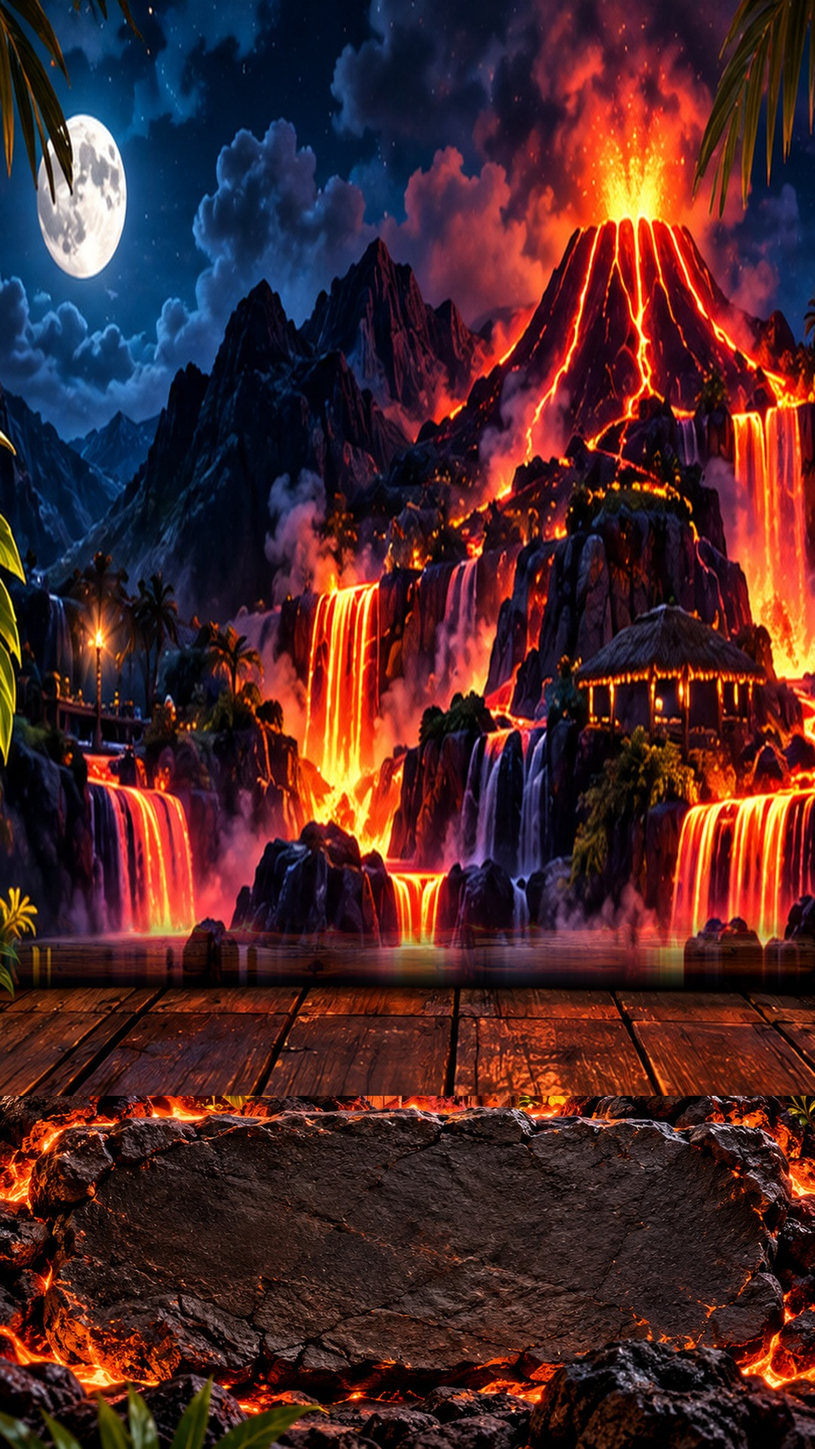
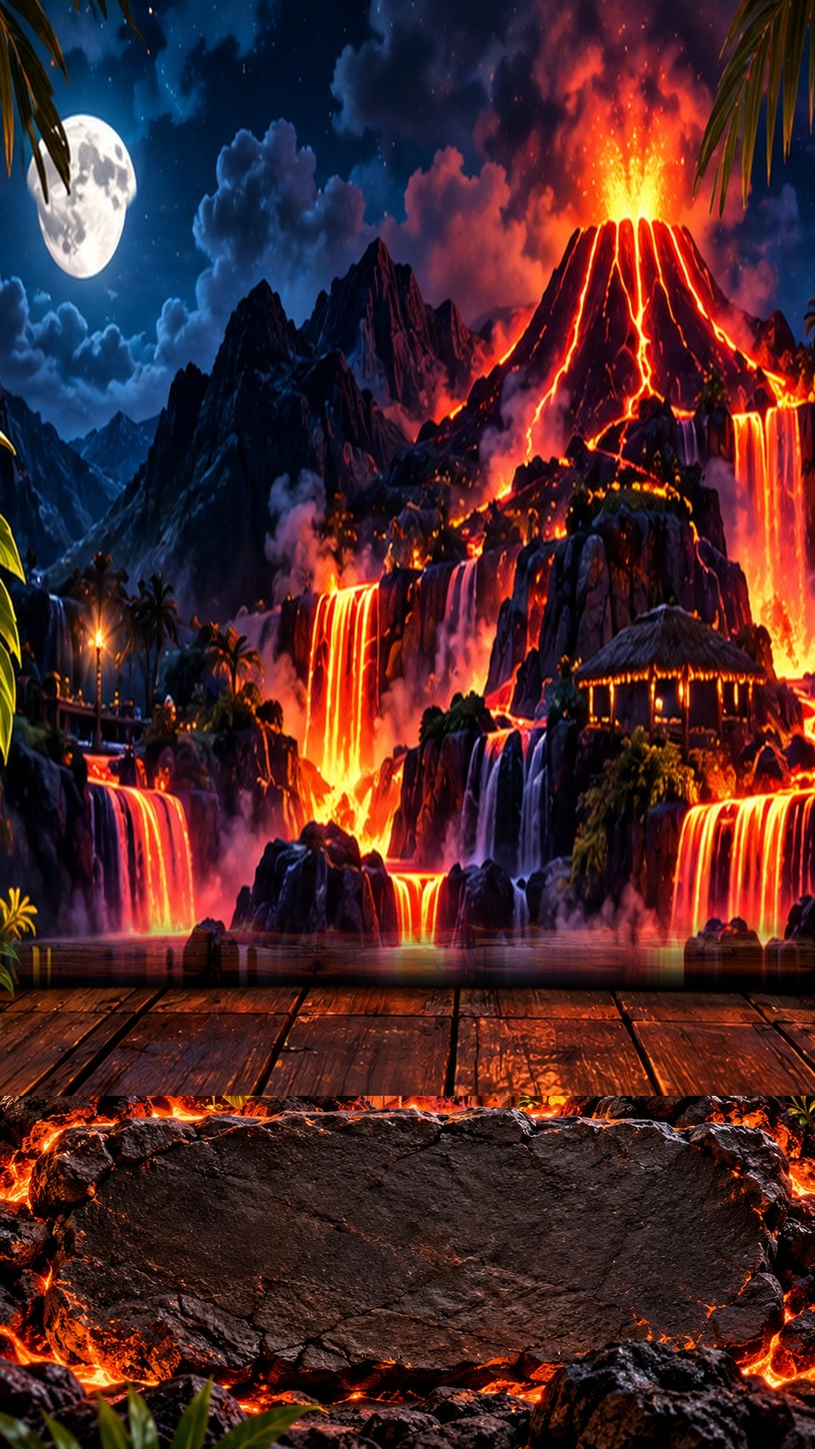
Add files via upload

Changed region(s): [[0.0, 0.0625, 0.1833, 0.1562]]

diff --git a/js/sign-v4.2.js b/js/sign-v4.2.js
@@ -1,0 +1,349 @@
+'use strict';
+(()=>{
+ const BASE={auto:true,screenTime:25,screenTimes:[20,25,25],factTime:12,weatherTime:12,weatherScale:100,weatherX:0,weatherY:0,tickerSpeed:95,tickerFontSize:45,drinksSize:60,drinksY:0,foodSize:60,foodY:0,menuEntries:null,menuTitles:null,tickerText:null,camY0:0,camY1:0,camSize0:100,camSize1:100,video0X:0,video0Y:0,video0Scale:100,video0CropTop:0,video0CropBottom:0,video0CropLeft:0,video0CropRight:0,video1X:0,video1Y:0,video1Scale:100,video1CropTop:0,video1CropBottom:0,video1CropLeft:0,video1CropRight:0,video0FrameX:160,video0FrameY:475,video0FrameWidth:760,video0FrameHeight:350,video1FrameX:160,video1FrameY:1055,video1FrameWidth:760,video1FrameHeight:355};
+ let cfg={...BASE};try{const x=JSON.parse(localStorage.getItem('roses-cove-v02')||'{}');cfg={...cfg,...x};}catch(_){}
+ const $=id=>document.getElementById(id), screens=[...document.querySelectorAll('.screen')];let current=-1,rotator=null,menuTimer=null,menuIndex=0,weatherTimer=null,factTimer=null,weatherIndex=0,camIndex=-1,camTimer=null,lastTrackWidth=0;const data=window.ROSES_DATA||{cams:[],locations:[]};
+ function scale(){document.getElementById('sign').style.setProperty('--scale',Math.min(innerWidth/1080,innerHeight/1920));}
+ addEventListener('resize',scale);scale();
+ function tickClock(){const d=new Date();$('clock').textContent=d.toLocaleDateString('en-US',{weekday:'long',month:'long',day:'numeric'})+'  •  '+d.toLocaleTimeString('en-US',{hour:'numeric',minute:'2-digit'});}tickClock();setInterval(tickClock,15000);
+ const facts=[
+  ['POLYNESIAN VOYAGING','Polynesian navigators traveled vast Pacific distances using stars, swells, winds, and signs from birds and clouds.'],
+  ['TIKI CULTURE','American tiki bars became popular in the 20th century, blending tropical fantasy, elaborate cocktails, and carved décor.'],
+  ['HAWAII','The Hawaiian Islands were formed by volcanic activity as the Pacific Plate moved over a hotspot.'],
+  ['TAHITI','Tahiti is the largest island in French Polynesia and is part of the Society Islands.'],
+  ['LANGUAGE','Aloha can convey hello, goodbye, affection, and compassion depending on its context.'],
+  ['OCEAN HISTORY','Traditional Polynesian double-hulled canoes were engineered for long ocean voyages.'],
+  ['TIKI TRIVIA','The Mai Tai is widely associated with the American tiki cocktail boom of the 1940s.'],
+  ['BORA BORA','Bora Bora is surrounded by a lagoon protected by a reef and is known for Mount Otemanu.']
+ ];let factIndex=-1;
+ function showFact(){if(!facts.length)return;let next=Math.floor(Math.random()*facts.length);if(facts.length>1&&next===factIndex)next=(next+1)%facts.length;factIndex=next;$('fact-type').textContent=facts[next][0];$('fact-text').textContent=facts[next][1];}
+ const CAM_LIST=[
+  {label:'Maui Sands • Honokowai, Maui, HI',kind:'youtube',value:'QzQ-7eiMw1w'},
+  {label:'Banzai Pipeline • North Shore, Oahu, HI',kind:'youtube',value:'Fp7l8XASb9Y'},
+  {label:'Halemaʻumaʻu Crater • Hawaiʻi Volcanoes NP, HI',kind:'youtube',value:'HggWKlZv9yk'},
+  {label:'Kaimana Beach Surf • Honolulu, Oahu, HI',kind:'youtube',value:'XXVhs4XkLm0'},
+  {label:'Kaimana Beach Shaka • Honolulu, Oahu, HI',kind:'youtube',value:'lBjz3lX14zY'},
+  {label:'Napili Beach • Napili, Maui, HI',kind:'youtube',value:'GL_2CrLwSDA'},
+  {label:'Kaanapali Beach • Kaanapali, Maui, HI',kind:'youtube',value:'YXji6UQ0bwY'},
+  {label:'Kahala Resort • Honolulu, Oahu, HI',kind:'youtube',value:'TZAvviB_o-4'}
+ ];
+ // Each screen visit takes the next two sources. Third-party page embeds may refuse framing.
+ let camPairCursor=0;
+ function stopCam(){
+  clearTimeout(camTimer);camTimer=null;
+  for(let i=0;i<2;i++){
+   $('cam-player-'+i).replaceChildren();
+   $('cam-fallback-'+i).classList.remove('visible');
+  }
+ }
+ function showCam(){
+  stopCam();
+  for(let i=0;i<2;i++){
+   const cam=CAM_LIST[(camPairCursor+i)%CAM_LIST.length];
+   const label=$('cam-label-'+i);label.replaceChildren();
+   const parts=cam.label.split(' • ');
+   const name=document.createElement('span');name.className='cam-name';name.textContent=parts[0];
+   const location=document.createElement('span');location.className='cam-place';location.textContent=parts.slice(1).join(' • ');
+   label.append(name,location);label.style.transform='translateY('+(Number(cfg['camY'+i])||0)+'px)';
+   const mount=$('cam-player-'+i),fallback=$('cam-fallback-'+i);
+   fallback.replaceChildren();fallback.classList.remove('source-hint','visible');
+   if(cam.kind==='youtube'){
+    const iframe=document.createElement('iframe');
+    iframe.title='Live view: '+cam.label;iframe.loading='eager';
+    iframe.allow='autoplay; encrypted-media; picture-in-picture; fullscreen';
+    iframe.referrerPolicy='strict-origin-when-cross-origin';
+    iframe.src='https://www.youtube.com/embed/'+encodeURIComponent(cam.value)+'?autoplay=1&mute=1&controls=0&playsinline=1&rel=0';
+    iframe.style.cssText='display:block;border:0';
+    mount.replaceChildren(iframe);applyVideoFit();
+   } else {
+    // Do not frame GeoWebcams: its response explicitly blocks third-party iframes.
+    mount.replaceChildren();
+    const title=document.createElement('strong');title.textContent='🌴 On Island Time';
+    const sub=document.createElement('small');sub.textContent='This camera needs a direct video link to join the luau.';
+    const link=document.createElement('a');link.textContent='OPEN LIVE CAMERA ↗';
+    link.href=cam.value;link.target='_blank';link.rel='noopener noreferrer';
+    fallback.append(title,sub,link);fallback.classList.add('visible');
+   }
+  }
+  camPairCursor=(camPairCursor+2)%CAM_LIST.length;
+ }
+ const weatherCodes={0:['Clear sky','☀'],1:['Mainly clear','🌤'],2:['Partly cloudy','⛅'],3:['Overcast','☁'],45:['Fog','🌫'],48:['Fog','🌫'],51:['Light drizzle','🌦'],53:['Drizzle','🌧'],55:['Heavy drizzle','🌧'],61:['Light rain','🌧'],63:['Rain','🌧'],65:['Heavy rain','🌧'],80:['Showers','🌦'],81:['Rain showers','🌧'],82:['Heavy showers','⛈'],95:['Thunderstorm','⛈']};
+ async function updateWeather(){if(current!==1||!data.locations.length)return;const loc=data.locations[weatherIndex++%data.locations.length];$('weather-place').textContent=loc.label;$('weather-position').textContent='';$('weather-description').textContent='Checking island skies…';$('weather-temp').textContent='--°';try{const u='https://api.open-meteo.com/v1/forecast?latitude='+loc.lat+'&longitude='+loc.lon+'&current=temperature_2m,weather_code&temperature_unit=fahrenheit&timezone=auto';const r=await fetch(u,{cache:'no-store'});if(!r.ok)throw Error('weather unavailable');const d=(await r.json()).current;if(current!==1)return;const c=weatherCodes[d.weather_code]||['Current conditions','🌺'];$('weather-place').textContent=loc.label;$('weather-description').textContent=c[0];$('weather-icon').textContent=c[1];$('weather-temp').textContent=Math.round(d.temperature_2m)+'°';}catch(err){$('weather-description').textContent='The forecast is on island time';$('weather-icon').textContent='🌴';}}
+ function resetRotation(){clearTimeout(rotator);if(cfg.auto&&!document.getElementById('settings').classList.contains('hidden'))return;if(cfg.auto)rotator=setTimeout(()=>go((current+1)%screens.length),Math.max(5,Number(cfg.screenTimes?.[current] ?? (current===0?20:cfg.screenTime)))*1000);}
+ function go(n){if(current===0)clearInterval(menuTimer);if(current===1){stopCam();clearInterval(weatherTimer);}if(current===2)clearInterval(factTimer);current=(n+screens.length)%screens.length;screens.forEach((s,i)=>s.classList.toggle('selected',i===current));if(current===0){menuIndex=0;showMenuSection();menuTimer=setInterval(()=>{menuIndex=(menuIndex+1)%2;showMenuSection();},5000);}if(current===1){showCam();updateWeather();weatherTimer=setInterval(updateWeather,Math.max(5,cfg.weatherTime)*1000);}if(current===2){showFact();factTimer=setInterval(showFact,Math.max(5,cfg.factTime)*1000);}resetRotation();}
+ function csvRows(s){const rows=[];let row=[],cell='',quoted=false;for(let i=0;i<s.length;i++){const c=s[i];if(c==='"'){if(quoted&&s[i+1]==='"'){cell+='"';i++;}else quoted=!quoted;}else if(c===','&&!quoted){row.push(cell);cell='';}else if((c==='\n'||c==='\r')&&!quoted){if(c==='\r'&&s[i+1]==='\n')i++;row.push(cell);rows.push(row);row=[];cell='';}else cell+=c;}row.push(cell);if(row.some(v=>v))rows.push(row);return rows;}
+ const SHEET='https://docs.google.com/spreadsheets/d/e/2PACX-1vShAy-GrtLBPJMGyfPQBCRl1yyCQTLke9Q0C-xyIYYTUgYyNmT03ZVHALSvmA-bkBeygqZuT_Kxi07q/pub?';
+ // The older TikiTome used these three published CSV tabs. Keep them isolated so a missing sheet does not affect screen rotation.
+ const feeds={announcements:SHEET+'gid=0&single=true&output=csv',drinks:SHEET+'gid=1771875939&single=true&output=csv',food:SHEET+'gid=312447422&single=true&output=csv'};
+ function renderTagged(raw){const fragment=document.createDocumentFragment(),stack=[{node:fragment,tag:null}],re=/\[\/?(?:red|gold|green|aqua|blue|purple|pink|white|cream|blink|pulse|wave|rainbow)\]/gi;let pos=0,m;while((m=re.exec(raw))){stack[stack.length-1].node.append(document.createTextNode(raw.slice(pos,m.index)));const tag=m[0].slice(1,-1).toLowerCase();if(tag.startsWith('/')){if(stack.length>1&&stack[stack.length-1].tag===tag.slice(1))stack.pop();else stack[stack.length-1].node.append(document.createTextNode(m[0]));}else{const span=document.createElement('span');span.className='tag-'+tag;stack[stack.length-1].node.append(span);stack.push({node:span,tag});}pos=re.lastIndex;}stack[stack.length-1].node.append(document.createTextNode(raw.slice(pos)));return fragment;}
+ async function loadFeed(kind){const r=await fetch(feeds[kind]+'&_='+Date.now(),{cache:'no-store'});if(!r.ok)throw Error(kind+' HTTP '+r.status);const a=csvRows(await r.text()).map(r=>(r[0]||'').trim()).filter(Boolean);return a;}
+ function showMenuSection(){const names=['drinks','food'];names.forEach((name,i)=>$(name+'-panel').classList.toggle('menu-active',menuIndex===i));}
+ // Menu font size and vertical placement are controlled exclusively by the settings sliders.
+ // No automatic shrink-to-fit, width measurement, or vertical clamping.
+ function fitMenuText(target){
+  if(!target)return;
+  const type=target.id, panel=target.closest('.menu-panel');
+  const size=Number(cfg[type+'Size'])||60;
+  const y=Number(cfg[type+'Y'])||0;
+  target.style.fontSize=size+'px';
+  const heading=panel.querySelector('h2');if(heading)heading.style.fontSize=(size*1.1)+'px';
+  panel.style.transform='translateY('+y+'px)';
+  target.dataset.appliedSize=String(size);
+ }
+ const DEFAULT_MENU={drinks:['Miller High Life', 'Michelob Ultra', "Rose's Cove Old Fashioned", 'Merlot or Chardonay'],food:['Hawaiian Pork Sliders', 'Seared Mahi Mahi w/Vegetables', 'Blackened Swordfish Steak', 'Island Fresh Fruit Salad']};
+ function displayMenu(type,entries){const target=$(type);target.replaceChildren();entries.slice(0,18).forEach(entry=>{const line=document.createElement('span');line.className='menu-entry';line.append(renderTagged(entry));target.append(line);});fitMenuText(target);}
+ function normalizeEntries(raw){return Array.from({length:5},(_,i)=>typeof raw?.[i]==='string'?raw[i]:'');}
+ function getEntries(type){return normalizeEntries(cfg.menuEntries?.[type] ?? DEFAULT_MENU[type]);}
+ function updateMenu(){for(const type of ['drinks','food']){displayMenu(type,getEntries(type).filter(item=>item.trim()));document.querySelector('#'+type+'-panel h2').textContent=cfg.menuTitles?.[type] ?? type.toUpperCase();}}
+ function readEditor(){const edited={};for(const type of ['drinks','food'])edited[type]=Array.from({length:5},(_,i)=>$('edit-'+type+'-'+(i+1)).value);return edited;}
+ function fillEditor(){for(const type of ['drinks','food']){getEntries(type).forEach((text,i)=>{$('edit-'+type+'-'+(i+1)).value=text;});$('edit-'+type+'-title').value=cfg.menuTitles?.[type] ?? type.toUpperCase();}}
+ function previewEdits(){cfg.menuEntries=readEditor();cfg.menuTitles={drinks:$('edit-drinks-title').value,food:$('edit-food-title').value};updateMenu();}
+ for(const type of ['drinks','food']){
+  $('edit-'+type+'-title').addEventListener('input',previewEdits);
+  for(let i=1;i<=5;i++)$('edit-'+type+'-'+i).addEventListener('input',previewEdits);
+  $('preview-'+type).addEventListener('click',()=>{if(current!==0)go(0);menuIndex=type==='drinks'?0:1;showMenuSection();});
+ }
+
+ 
+ const HALLOWEEN_ANNOUNCEMENT='Aloha, honored guests of Marine Street, and mysterious travelers from exotic islands and faraway shores! The spirits are restless, the torches are burning, and the tropical night is alive with mystery! Welcome, one and all, to Rose’s Cove Annual Halloween Party!';
+ function updateAnnouncements(){
+  const track=$('ticker');track.replaceChildren();
+  for(let i=0;i<2;i++){
+   const span=document.createElement('span');span.className='ticker-copy';
+   span.textContent=(cfg.tickerText ?? HALLOWEEN_ANNOUNCEMENT)+'   ✿   ';
+   track.append(span);
+  }
+  updateTickerFontSize();
+ }
+ function updateTickerFontSize(){
+  const size=Math.min(90,Math.max(18,Number(cfg.tickerFontSize ?? 45)));
+  document.querySelectorAll('.ticker-copy').forEach(el=>{el.style.fontSize=size+'px';});
+  const control=$('ticker-font-size');if(control)control.value=size;
+  const output=$('ticker-font-size-value');if(output)output.textContent=size+' px';
+  updateTickerSpeed();
+ }
+ function updateTickerSpeed(){const span=document.querySelector('.ticker-copy');if(!span)return;const pixels=span.getBoundingClientRect().width/(parseFloat(getComputedStyle($('sign')).getPropertyValue('--scale'))||1);lastTrackWidth=pixels;document.getElementById('ticker').style.setProperty('--ticker-duration',Math.max(8,pixels/Math.max(20,cfg.tickerSpeed))+'s');}
+ function tuneMenu(type,size,y){
+   cfg[type+'Size']=Number(size);cfg[type+'Y']=Number(y);
+   $(type+'-size-value').textContent=size+' px';
+   $(type+'-y-value').textContent=(Number(y)>0?'+':'')+y+' px';
+   fitMenuText($(type));
+ }
+ function loadMenuControls(){for(const type of ['drinks','food']){
+   $(type+'-size').value=cfg[type+'Size'];$(type+'-y').value=cfg[type+'Y'];
+   tuneMenu(type,cfg[type+'Size'],cfg[type+'Y']);
+ }}
+ function restoreMenuSnapshot(){if(!menuSnapshot)return;for(const type of ['drinks','food']){
+   cfg[type+'Size']=menuSnapshot[type+'Size'];cfg[type+'Y']=menuSnapshot[type+'Y'];
+ } cfg.menuEntries=menuSnapshot.menuEntries;cfg.menuTitles=menuSnapshot.menuTitles;updateMenu();loadMenuControls();}
+ let menuSnapshot=null, settingsSnapshot=null;
+ for(const type of ['drinks','food'])for(const field of ['size','y']){
+   $(type+'-'+field).addEventListener('input',()=>tuneMenu(type,$(type+'-size').value,$(type+'-y').value));
+ }
+ $('reset-menu-tuning').onclick=()=>{for(const type of ['drinks','food']){
+   cfg[type+'Size']=60;cfg[type+'Y']=0;
+ }loadMenuControls();};
+
+ function applyCamOffsets(){for(let i=0;i<2;i++){
+   const value=Number(cfg['camY'+i])||0;
+   const size=Math.max(60,Math.min(170,Number(cfg['camSize'+i])||100));
+   const label=$('cam-label-'+i);
+   if(label){
+     label.style.transform='translateY('+value+'px)';
+     // Keep camera title/location ratio at the original 29:23 and preserve natural glyph proportions.
+     label.style.setProperty('--cam-caption-name-size',(29*size/100)+'px');
+     label.style.setProperty('--cam-caption-place-size',(23*size/100)+'px');
+   }
+   $('cam-y-'+i+'-value').textContent=(value>0?'+':'')+value+' px';
+   $('cam-size-'+i+'-value').textContent=size+'%';
+ }}
+ for(let i=0;i<2;i++)$('cam-y-'+i).addEventListener('input',e=>{cfg['camY'+i]=Number(e.target.value);applyCamOffsets();});
+ for(let i=0;i<2;i++)$('cam-size-'+i).addEventListener('input',e=>{cfg['camSize'+i]=Number(e.target.value);applyCamOffsets();});
+
+ // Video fit controls are independent from camera rotation and preserve the 16:9 frame.
+ const VIDEO_FIELDS=[
+  ['X','Horizontal position',-200,200,1,'px'],['Y','Vertical position',-200,200,1,'px'],
+  ['Scale','Uniform zoom',75,200,1,'%'],['CropTop','Crop top',0,120,1,'px'],
+  ['CropBottom','Crop bottom',0,120,1,'px'],['CropLeft','Crop left',0,150,1,'px'],
+  ['CropRight','Crop right',0,150,1,'px']
+ ];
+ const FRAME_FIELDS=[
+  ['FrameX','Frame left (X)',0,1080,1,'px'],['FrameY','Frame top (Y)',0,1920,1,'px'],
+  ['FrameWidth','Frame width',160,1080,1,'px'],['FrameHeight','Frame height',120,900,1,'px']
+ ];
+ const FRAME_DEFAULTS=[{FrameX:160,FrameY:475,FrameWidth:760,FrameHeight:350},{FrameX:160,FrameY:1055,FrameWidth:760,FrameHeight:355}];
+ let selectedVideo=0;
+ function applyVideoFit(){
+  for(let i=0;i<2;i++){
+   const frame=document.querySelector(i===0?'#screen-live .cam-a':'#screen-live .cam-b');
+   if(!frame)continue;
+   const x=Number(cfg['video'+i+'X'])||0,y=Number(cfg['video'+i+'Y'])||0;
+   const zoom=Math.max(75,Math.min(200,Number(cfg['video'+i+'Scale'])||100))/100;
+   const crop=k=>Math.max(0,Number(cfg['video'+i+k])||0);
+   // Reposition and resize the actual dashed-guide viewport, without resizing the background.
+   for(const [key,,min,max] of FRAME_FIELDS){
+    const fallback=FRAME_DEFAULTS[i][key];
+    const value=Math.min(max,Math.max(min,Number(cfg['video'+i+key] ?? fallback)));
+    const css={FrameX:'left',FrameY:'top',FrameWidth:'width',FrameHeight:'height'}[key];
+    frame.style[css]=value+'px';
+   }
+   frame.style.setProperty('--video-shift-x',x+'px');
+   frame.style.setProperty('--video-shift-y',y+'px');
+   frame.style.setProperty('--video-zoom',zoom);
+   frame.style.setProperty('--video-crop-top',crop('CropTop')+'px');
+   frame.style.setProperty('--video-crop-bottom',crop('CropBottom')+'px');
+   frame.style.setProperty('--video-crop-left',crop('CropLeft')+'px');
+   frame.style.setProperty('--video-crop-right',crop('CropRight')+'px');
+  }
+ }
+ function buildVideoSliderControls(){
+  const host=$('video-slider-fields');host.replaceChildren();
+  const heading=document.createElement('h4');heading.textContent='VIDEO VIEWPORT / BLUE GUIDE';host.append(heading);
+  const description=document.createElement('p');description.textContent='Move and resize the dashed frame. Video zoom and crop below affect only the image inside it.';host.append(description);
+  for(const [key,label,min,max,step,unit] of [...FRAME_FIELDS,...VIDEO_FIELDS]){
+   const row=document.createElement('label');row.className='video-slider-row';
+   const line=document.createElement('span');line.textContent=label+' ';
+   const output=document.createElement('output');output.id='video-control-value-'+key;
+   line.append(output);
+   const slider=document.createElement('input');slider.type='range';slider.id='video-control-'+key;
+   slider.min=min;slider.max=max;slider.step=step;
+   slider.addEventListener('input',()=>{
+    cfg['video'+selectedVideo+key]=Number(slider.value);
+    output.textContent=slider.value+' '+unit;
+    applyVideoFit();
+   });
+   row.append(line,slider);host.append(row);
+  }
+  loadVideoSliderControls();
+ }
+ function loadVideoSliderControls(){
+  for(const [key,,min,max,,unit] of [...FRAME_FIELDS,...VIDEO_FIELDS]){
+   const value=cfg['video'+selectedVideo+key]??(key==='Scale'?100:(FRAME_DEFAULTS[selectedVideo][key]??0));
+   const slider=$('video-control-'+key);if(!slider)continue;
+   slider.value=Math.min(max,Math.max(min,value));
+   $('video-control-value-'+key).textContent=slider.value+' '+unit;
+  }
+  for(let i=0;i<2;i++)$('video-select-'+i).classList.toggle('active',i===selectedVideo);
+  updateVideoGuides();
+ }
+ function updateVideoGuides(){
+  const enabled=!$('settings').classList.contains('hidden') &&
+    document.querySelector('[data-panel="video"]').classList.contains('active') && $('video-guides').checked;
+  $('screen-live').classList.toggle('video-guides',enabled);
+  $('screen-live').dataset.tuningVideo=selectedVideo;
+ }
+ for(let i=0;i<2;i++)$('video-select-'+i).addEventListener('click',()=>{selectedVideo=i;loadVideoSliderControls();});
+ $('video-reset').addEventListener('click',()=>{
+  for(const [key] of VIDEO_FIELDS)cfg['video'+selectedVideo+key]=key==='Scale'?100:0;
+  loadVideoSliderControls();applyVideoFit();
+ });
+ $('video-frame-reset').addEventListener('click',()=>{
+  for(const [key] of FRAME_FIELDS)cfg['video'+selectedVideo+key]=FRAME_DEFAULTS[selectedVideo][key];
+  loadVideoSliderControls();applyVideoFit();
+ });
+ $('video-guides').addEventListener('change',updateVideoGuides);
+ buildVideoSliderControls();applyVideoFit();
+
+ $('ticker-text').addEventListener('input',e=>{cfg.tickerText=e.target.value;updateAnnouncements();});
+ function setSettingsTab(name){if(name==='video' && current!==1)go(1);document.querySelectorAll('[data-settings-tab]').forEach(b=>{const on=b.dataset.settingsTab===name;b.classList.toggle('active',on);b.setAttribute('aria-selected',String(on));});document.querySelectorAll('[data-panel]').forEach(p=>p.classList.toggle('active',p.dataset.panel===name));updateVideoGuides();}
+ document.querySelectorAll('[data-settings-tab]').forEach(b=>b.addEventListener('click',()=>setSettingsTab(b.dataset.settingsTab)));
+ const settings=$('settings');
+ $('ticker-font-size').addEventListener('input',()=>{cfg.tickerFontSize=Number($('ticker-font-size').value);updateTickerFontSize();});
+ function applyWeatherTuning(){
+  const weather=$('screen-live').querySelector('.weather-info');
+  const card=weather.closest('.weather-card');
+  const left=weather.querySelector('.weather-left');
+  const temp=$('weather-temp');
+  // Fixed 24px edge anchors. The left group grows rightward, temperature
+  // grows leftward. Neither group is stretched or allowed to overlap.
+  const innerWidth=Math.max(0,card.clientWidth-48);
+  const requested=Math.max(.01,(Number(cfg.weatherScale)||100)/100);
+  const naturalLeft=left.offsetWidth;
+  const naturalTemp=temp.offsetWidth;
+  const naturalHeight=Math.max(left.offsetHeight,temp.offsetHeight);
+  const fitWidth=(innerWidth-20)/Math.max(1,naturalLeft+naturalTemp);
+  const fitHeight=(card.clientHeight-48)/Math.max(1,naturalHeight);
+  const scale=Math.max(.01,Math.min(requested,fitWidth,fitHeight));
+  const roomY=Math.max(0,(card.clientHeight-48-naturalHeight*scale)/2);
+  const y=Math.max(-roomY,Math.min(roomY,Number(cfg.weatherY)||0));
+  weather.style.setProperty('--weather-fit-scale',String(scale));
+  weather.style.setProperty('--weather-offset-y',y+'px');
+  // The horizontal slider is retained for settings compatibility, but edge
+  // anchoring intentionally overrides its horizontal movement.
+  for(const [key,suffix] of [['weatherScale','%'],['weatherX',' px'],['weatherY',' px']]){
+   const id=key==='weatherScale'?'weather-scale':key==='weatherX'?'weather-x':'weather-y';
+   const input=$(id),output=$(id+'-value');
+   if(input)input.value=cfg[key];
+   if(output)output.textContent=cfg[key]+suffix;
+  }
+ }
+ // Text size can change when a different island forecast is loaded.
+ // Refit dynamically without ever expanding beyond the 25%-inset safe area.
+ const weatherReadout=$('screen-live').querySelector('.weather-info');
+ const weatherObserver=new MutationObserver(()=>requestAnimationFrame(applyWeatherTuning));
+ weatherObserver.observe(weatherReadout,{subtree:true,childList:true,characterData:true});
+ document.fonts?.ready?.then(applyWeatherTuning);
+ addEventListener('resize',()=>requestAnimationFrame(applyWeatherTuning));
+ for(const [id,key] of [['weather-scale','weatherScale'],['weather-x','weatherX'],['weather-y','weatherY']]){
+  $(id).addEventListener('input',e=>{cfg[key]=Number(e.target.value);applyWeatherTuning();});
+ }
+ $('weather-reset').addEventListener('click',()=>{cfg.weatherScale=100;cfg.weatherX=0;cfg.weatherY=0;applyWeatherTuning();});
+ applyWeatherTuning();
+ function openSettings(){settingsSnapshot=JSON.parse(JSON.stringify(cfg));menuSnapshot={drinksSize:cfg.drinksSize,drinksY:cfg.drinksY,foodSize:cfg.foodSize,foodY:cfg.foodY,menuEntries:JSON.parse(JSON.stringify(cfg.menuEntries??null)),menuTitles:JSON.parse(JSON.stringify(cfg.menuTitles??null))};fillEditor();settings.classList.remove('hidden');loadMenuControls();clearTimeout(rotator);$('auto-rotate').checked=!!cfg.auto;for(let i=0;i<3;i++)$('screen-time-'+i).value=cfg.screenTimes?.[i]??(i===0?20:cfg.screenTime);$('fact-time').value=cfg.factTime;$('weather-time').value=cfg.weatherTime;$('ticker-speed').value=cfg.tickerSpeed;updateTickerFontSize();$('ticker-text').value=cfg.tickerText ?? HALLOWEEN_ANNOUNCEMENT;for(let i=0;i<2;i++){$('cam-y-'+i).value=cfg['camY'+i]??0;$('cam-size-'+i).value=cfg['camSize'+i]??100;}applyCamOffsets();loadVideoSliderControls();applyVideoFit();applyWeatherTuning();setSettingsTab('menu');}
+ function closeSettings(save){if(save){cfg={...cfg,auto:$('auto-rotate').checked,screenTimes:[0,1,2].map(i=>Math.max(5,Math.min(300,Number($('screen-time-'+i).value)|| (i===0?20:25)))),factTime:Number($('fact-time').value)||12,weatherTime:Number($('weather-time').value)||12,tickerSpeed:Number($('ticker-speed').value)||95};localStorage.setItem('roses-cove-v02',JSON.stringify(cfg));updateAnnouncements();applyCamOffsets();applyVideoFit();applyWeatherTuning();if(current===1){clearInterval(weatherTimer);weatherTimer=setInterval(updateWeather,Math.max(5,cfg.weatherTime)*1000);}if(current===2){clearInterval(factTimer);factTimer=setInterval(showFact,Math.max(5,cfg.factTime)*1000);}}else{restoreMenuSnapshot();cfg={...BASE,...settingsSnapshot};updateTickerFontSize();updateAnnouncements();applyCamOffsets();applyVideoFit();applyWeatherTuning();}menuSnapshot=null;settingsSnapshot=null;settings.classList.add('hidden');updateVideoGuides();resetRotation();}
+ $('version').onclick=openSettings;$('close-settings').onclick=()=>closeSettings(false);$('save-settings').onclick=()=>closeSettings(true);$('next-screen').onclick=()=>go(current+1);$('prev-screen').onclick=()=>go(current-1);addEventListener('keydown',e=>{if(e.key==='Escape')closeSettings(false);if(e.key==='ArrowRight')go(current+1);if(e.key==='ArrowLeft')go(current-1);});
+
+ // v3.5: independent modular wood puppet (not a whole-picture animation).
+ const tikiParts={leftEye:$('tiki-eye-left'),rightEye:$('tiki-eye-right'),leftLid:$('tiki-lid-left'),rightLid:$('tiki-lid-right'),leftBrow:$('tiki-brow-left'),rightBrow:$('tiki-brow-right'),jaw:$('tiki-jaw')};
+ const tikiMoods={
+  happy:{eyes:[0,0],eyeY:0,lids:[-16,-16],brows:[-4,-4],rot:[-1.5,1.5],jaw:6},
+  sad:{eyes:[-3,-3],eyeY:5,lids:[8,8],brows:[5,5],rot:[4,-4],jaw:1},
+  tired:{eyes:[0,0],eyeY:0,lids:[18,18],brows:[6,6],rot:[-1,1],jaw:0},
+  bored:{eyes:[-5,-5],eyeY:0,lids:[12,14],brows:[4,3],rot:[0,0],jaw:0},
+  mad:{eyes:[0,0],eyeY:0,lids:[2,2],brows:[10,10],rot:[7,-7],jaw:2},
+  puzzled:{eyes:[6,-6],eyeY:0,lids:[10,-4],brows:[-9,9],rot:[-6,6],jaw:4},
+  laugh:{eyes:[0,0],eyeY:0,lids:[14,14],brows:[-8,-8],rot:[-3,3],jaw:20},
+  suspicious:{eyes:[-6,6],eyeY:0,lids:[13,-8],brows:[7,-9],rot:[5,-4],jaw:2}
+ };
+ let tikiMood='happy',tikiAuto=true,tikiIdleTimer=null,tikiTalkTimer=null,tikiTalking=false,tikiLookX=0,tikiLookY=0,tikiJawLift=0;
+ function applyTikiPose(){
+  const pose=tikiMoods[tikiMood]||tikiMoods.happy;
+  for(let i=0;i<2;i++){
+   const isLeft=i===0,eye=isLeft?tikiParts.leftEye:tikiParts.rightEye,lid=isLeft?tikiParts.leftLid:tikiParts.rightLid,brow=isLeft?tikiParts.leftBrow:tikiParts.rightBrow;
+   eye.style.transform=`translate(${pose.eyes[i]+tikiLookX}px,${(pose.eyeY||0)+tikiLookY}px)`;
+   lid.style.transform=`translateY(${pose.lids[i]}px)`;
+   brow.style.transform=`translateY(${pose.brows[i]}px) rotate(${pose.rot[i]}deg)`;
+   brow.style.transformOrigin=isLeft?'332px 518px':'507px 518px';
+  }
+  tikiParts.jaw.style.transform=`translateY(${pose.jaw+tikiJawLift}px) rotate(${tikiMood==='puzzled'?1:tikiMood==='sad'?-1:0}deg)`;
+  tikiParts.jaw.style.transformOrigin='420px 752px';
+  document.querySelectorAll('[data-tiki-mood]').forEach(b=>b.classList.toggle('active',b.dataset.tikiMood===tikiMood));
+ }
+ function poseTiki(name){tikiMood=name;applyTikiPose();}
+ function blinkTiki(side){
+  const targets=side==='left'?[tikiParts.leftLid]:side==='right'?[tikiParts.rightLid]:[tikiParts.leftLid,tikiParts.rightLid];
+  const restore=(tikiMoods[tikiMood]||tikiMoods.happy).lids;
+  targets.forEach(l=>l.style.transform='translateY(23px)');
+  setTimeout(()=>targets.forEach(l=>l.style.transform=`translateY(${l===tikiParts.leftLid?restore[0]:restore[1]}px)`),190);
+ }
+ function animateTikiIdle(){if(current!==2||!tikiAuto||document.hidden)return;
+  const n=Math.random();
+  if(n<.42){blinkTiki();}
+  else if(n<.72){const moods=['happy','puzzled','bored','tired','laugh','sad','suspicious'];poseTiki(moods[Math.floor(Math.random()*moods.length)]);}
+  else {
+    tikiLookX=Math.round((Math.random()-.5)*8);
+    tikiLookY=Math.round((Math.random()-.5)*2);
+    applyTikiPose();
+    setTimeout(()=>{tikiLookX=0;tikiLookY=0;applyTikiPose();},850);
+  }
+ }
+ document.querySelectorAll('[data-tiki-mood]').forEach(b=>b.addEventListener('click',()=>{poseTiki(b.dataset.tikiMood);if(current!==2)go(2);}));
+ $('tiki-auto').addEventListener('change',e=>{tikiAuto=!!e.target.checked;});
+ tikiIdleTimer=setInterval(animateTikiIdle,2800);
+ const oldShowFact=showFact;
+ // The jaw articulates briefly for each new trivia line; no audio generated.
+ showFact=function(){oldShowFact();if(current===2){tikiTalking=true;let count=0;clearInterval(tikiTalkTimer);tikiTalkTimer=setInterval(()=>{if(current!==2||count++>10){clearInterval(tikiTalkTimer);tikiTalking=false;tikiJawLift=0;applyTikiPose();return;}tikiJawLift=(count%2?13:3);applyTikiPose();},145);}};
+ poseTiki('happy');
+
+ go(0);updateMenu();updateAnnouncements();applyCamOffsets();updateTickerFontSize();setInterval(updateAnnouncements,60*1000);document.fonts?.ready?.then(()=>{updateTickerSpeed();fitMenuText($('drinks'));fitMenuText($('food'));});
+})();

diff --git a/index.html b/index.html
@@ -37,8 +37,8 @@
  </svg></div>
  <div class="trivia-overlay"><div class="fact-card"><div class="fact-type" id="fact-type">TIKI CULTURE</div><div class="fact-content" id="fact-text">A little island wisdom is coming your way…</div><div class="fact-foot">The tiki has spoken. 🌺</div></div></div>
 </section>
-<button id="version" title="Open sign settings">v4.1</button>
+<button id="version" title="Open sign settings">v4.2</button>
 <div id="settings" class="settings hidden" role="dialog" aria-label="Rose's Cove sign settings" aria-modal="true"><div class="settings-inner"><div class="settings-title">⚙ SIGN SETTINGS <button id="close-settings">✕</button></div><nav class="settings-tabs" aria-label="Settings screen"><button type="button" class="active" data-settings-tab="general">GENERAL</button><button type="button" data-settings-tab="menu">SCREEN 1</button><button type="button" data-settings-tab="video">SCREEN 2</button><button type="button" data-settings-tab="trivia">SCREEN 3</button></nav><div class="settings-panel active" data-panel="general"><label><span>Automatic screen rotation</span><input id="auto-rotate" type="checkbox" checked></label><label><span>Screen 1 duration (seconds)</span><input type="number" id="screen-time-0" min="5" max="300" value="20"></label><label><span>Screen 2 duration (seconds)</span><input type="number" id="screen-time-1" min="5" max="300" value="25"></label><label><span>Screen 3 duration (seconds)</span><input type="number" id="screen-time-2" min="5" max="300" value="25"></label></div><div class="settings-panel" data-panel="trivia"><label><span>Trivia rotation (seconds)</span><input type="number" id="fact-time" min="5" max="300" value="12"></label><div class="tiki-controls"><h3>ANIMATED TIKI · EXPRESSIONS</h3><p>Try the mechanical brows, eyes, sliding eyelids and hinged jaw live.</p><div class="tiki-expression-buttons"><button type="button" data-tiki-mood="happy">HAPPY</button><button type="button" data-tiki-mood="sad">SAD</button><button type="button" data-tiki-mood="tired">TIRED</button><button type="button" data-tiki-mood="bored">BORED</button><button type="button" data-tiki-mood="mad">MAD</button><button type="button" data-tiki-mood="puzzled">PUZZLED</button><button type="button" data-tiki-mood="laugh">LAUGH</button><button type="button" data-tiki-mood="suspicious">SUSPICIOUS</button></div><label><span>Auto expressions and blinks</span><input type="checkbox" id="tiki-auto" checked></label></div></div><div class="settings-panel" data-panel="video"><label><span>Weather location rotation (seconds)</span><input type="number" id="weather-time" min="5" max="300" value="12"></label><div class="weather-tuning"><h3>WEATHER READOUT · SIZE &amp; POSITION</h3><p>Scale city, icon, conditions, and temperature together without distortion.</p><label><span>Weather size <output id="weather-scale-value">100%</output></span><input type="range" id="weather-scale" min="50" max="180" step="1" value="100"></label><label><span>Weather horizontal <output id="weather-x-value">0 px</output></span><input type="range" id="weather-x" disabled title="Horizontal alignment is locked to panel edges" min="-200" max="200" step="1" value="0"></label><label><span>Weather vertical <output id="weather-y-value">0 px</output></span><input type="range" id="weather-y" min="-150" max="150" step="1" value="0"></label><button type="button" id="weather-reset">RESET WEATHER ADJUSTMENTS</button></div><div class="camera-tuning"><h3>CAMERA CAPTION PLACEMENT</h3><label><span>Upper caption vertical <output id="cam-y-0-value">0 px</output></span><input type="range" id="cam-y-0" min="-100" max="100" step="1" value="0"></label><label><span>Lower caption vertical <output id="cam-y-1-value">0 px</output></span><input type="range" id="cam-y-1" min="-100" max="100" step="1" value="0"></label><label><span>Upper caption text size <output id="cam-size-0-value">100%</output></span><input type="range" id="cam-size-0" min="60" max="170" step="1" value="100"></label><label><span>Lower caption text size <output id="cam-size-1-value">100%</output></span><input type="range" id="cam-size-1" min="60" max="170" step="1" value="100"></label></div><div class="video-tuning"><h3>VIDEO FIT &amp; CROP</h3><p>Each camera can be tuned independently. Position and zoom preserve the original 16:9 aspect ratio. Crop trims the visible window.</p><div class="video-tuning-tabs"><button type="button" id="video-select-0" class="active">TOP VIDEO</button><button type="button" id="video-select-1">BOTTOM VIDEO</button></div><div id="video-slider-fields"></div><div class="video-tuning-actions"><button type="button" id="video-frame-reset">RESET FRAME</button><button type="button" id="video-reset">RESET VIDEO IMAGE</button><label class="video-guides-toggle"><span>Alignment guides</span><input type="checkbox" id="video-guides" checked></label></div></div></div><div class="settings-panel" data-panel="menu"><label><span>Announcement speed (pixels/second)</span><input type="number" id="ticker-speed" min="20" max="500" value="95"></label><div class="ticker-tuning"><h3>SCREEN 1 · BOTTOM SCROLL</h3><label><span>Ticker text size <output id="ticker-font-size-value">45 px</output></span><input type="range" id="ticker-font-size" min="18" max="90" step="1" value="45"></label><label class="ticker-text-edit"><span>SCROLLING ANNOUNCEMENT TEXT</span><textarea id="ticker-text" rows="3" maxlength="2500" spellcheck="true"></textarea></label></div><div class="menu-tuning"><h3>SCREEN 1 · MENU LETTERING</h3><p>Separate controls for each menu. Preview changes live; Save &amp; Close to keep them.</p><label><span>Drinks lettering size <output id="drinks-size-value">60 px</output></span><input type="range" id="drinks-size" min="32" max="82" step="1" value="60"></label><label><span>Drinks vertical offset <output id="drinks-y-value">0 px</output></span><input type="range" id="drinks-y" min="-90" max="90" step="2" value="0"></label><label><span>Food lettering size <output id="food-size-value">60 px</output></span><input type="range" id="food-size" min="32" max="82" step="1" value="60"></label><label><span>Food vertical offset <output id="food-y-value">0 px</output></span><input type="range" id="food-y" min="-90" max="90" step="2" value="0"></label><button id="reset-menu-tuning" type="button">RESET MENU ADJUSTMENTS</button><div class="menu-editor"><h3>EDIT MENU ITEMS</h3><p>Five slots per menu. Leave any slot blank to hide it. Changes preview live; Save &amp; Close stores them on this Mac.</p><div class="menu-editor-grid"><div class="menu-editor-group"><label class="menu-title-edit"><span>DRINKS heading</span><input type="text" id="edit-drinks-title" maxlength="80" autocomplete="off" spellcheck="false" aria-label="DRINKS heading"></label><h4>DRINKS <button type="button" id="preview-drinks" class="preview-menu">PREVIEW</button></h4><label class="menu-editor-row"><span>1</span><input type="text" id="edit-drinks-1" maxlength="140" autocomplete="off" spellcheck="false" aria-label="DRINKS item 1"></label><label class="menu-editor-row"><span>2</span><input type="text" id="edit-drinks-2" maxlength="140" autocomplete="off" spellcheck="false" aria-label="DRINKS item 2"></label><label class="menu-editor-row"><span>3</span><input type="text" id="edit-drinks-3" maxlength="140" autocomplete="off" spellcheck="false" aria-label="DRINKS item 3"></label><label class="menu-editor-row"><span>4</span><input type="text" id="edit-drinks-4" maxlength="140" autocomplete="off" spellcheck="false" aria-label="DRINKS item 4"></label><label class="menu-editor-row"><span>5</span><input type="text" id="edit-drinks-5" maxlength="140" autocomplete="off" spellcheck="false" aria-label="DRINKS item 5"></label></div><div class="menu-editor-group"><label class="menu-title-edit"><span>FOOD heading</span><input type="text" id="edit-food-title" maxlength="80" autocomplete="off" spellcheck="false" aria-label="FOOD heading"></label><h4>FOOD <button type="button" id="preview-food" class="preview-menu">PREVIEW</button></h4><label class="menu-editor-row"><span>1</span><input type="text" id="edit-food-1" maxlength="140" autocomplete="off" spellcheck="false" aria-label="FOOD item 1"></label><label class="menu-editor-row"><span>2</span><input type="text" id="edit-food-2" maxlength="140" autocomplete="off" spellcheck="false" aria-label="FOOD item 2"></label><label class="menu-editor-row"><span>3</span><input type="text" id="edit-food-3" maxlength="140" autocomplete="off" spellcheck="false" aria-label="FOOD item 3"></label><label class="menu-editor-row"><span>4</span><input type="text" id="edit-food-4" maxlength="140" autocomplete="off" spellcheck="false" aria-label="FOOD item 4"></label><label class="menu-editor-row"><span>5</span><input type="text" id="edit-food-5" maxlength="140" autocomplete="off" spellcheck="false" aria-label="FOOD item 5"></label></div></div></div></div></div><div class="settings-actions"><button id="prev-screen">← PREV</button><button id="next-screen">NEXT →</button><button id="save-settings">SAVE & CLOSE</button></div><p>Settings are saved in this browser. Arrow keys also change screens. This menu is hidden until the version number is clicked.</p></div></div>
 </main><button id="fullscreen-toggle" type="button" title="Enter full screen" aria-label="Enter full screen" aria-pressed="false"><span id="fullscreen-icon" aria-hidden="true">⛶</span></button></div>
-<script src="./js/data.js"></script><script src="./js/sign-v4.1.js"></script><script src="./js/fullscreen.js?v=0.8"></script><script src="./js/settings-drag-v2.6.js"></script>
+<script src="./js/data.js"></script><script src="./js/sign-v4.2.js"></script><script src="./js/fullscreen.js?v=0.8"></script><script src="./js/settings-drag-v2.6.js"></script>
 </body></html>

diff --git a/css/sign.css b/css/sign.css
@@ -467,3 +467,23 @@ body.fullscreen-active #fullscreen-toggle { opacity:0; pointer-events:none; }
 #screen-trivia .fact-type{font-size:24px;letter-spacing:4px;}
 #screen-trivia .fact-content{font-size:42px;line-height:1.08;max-width:840px;}
 #screen-trivia .fact-foot{font-size:22px;}
+
+
+/* v4.2 — Screen 3 background lock: zero internal stretch, exact native portrait size. */
+#screen-trivia{padding:0 !important;background:none !important;overflow:hidden;}
+#screen-trivia::before{display:none !important;}
+#screen-trivia .screen3-background{
+  position:absolute;
+  left:0; top:0;
+  width:1080px !important;
+  height:1920px !important;
+  min-width:1080px;
+  min-height:1920px;
+  max-width:none;
+  max-height:none;
+  object-fit:fill; /* safe because source asset is already exactly 1080×1920 */
+  object-position:left top;
+  transform:none !important;
+  pointer-events:none;
+  z-index:0;
+}

diff --git a/README.md b/README.md
@@ -28,3 +28,8 @@ v4.1 notes
 - Screen 3 background now uses an explicit portrait image layer to preserve the moon and scenery proportions.
 - Screen 3 eye and mouth motion are clipped to carved openings to reduce visible seams and spillover.
 - Screen 3 tiki idle eye motion now preserves mood pose instead of overwriting it.
+
+v4.2 notes
+- Replaced Screen 3 volcano background asset with a corrected moon.
+- Locked Screen 3 background rendering to the asset's exact native 1080x1920 dimensions.
+- Removed Screen 3 internal padding from the background render path to prevent any remaining distortion.
